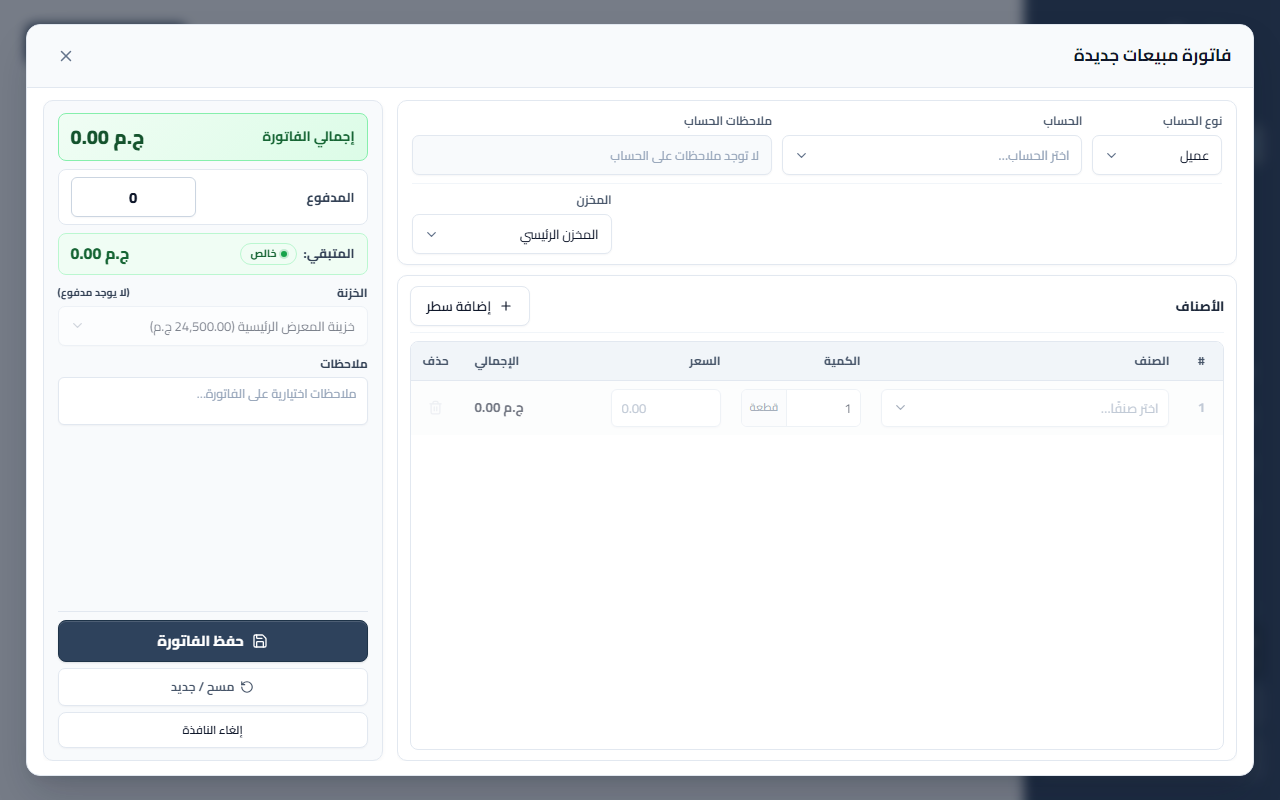
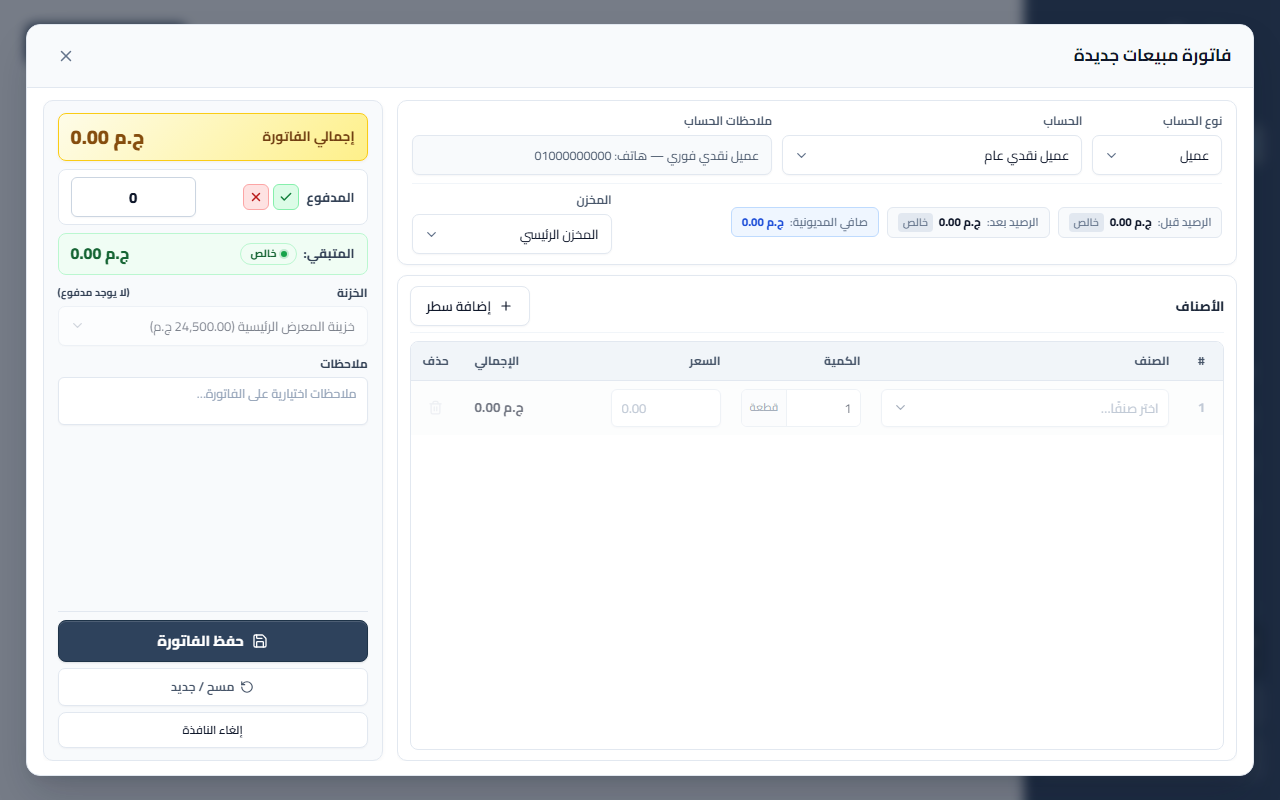
style(invoices): highlight invoice total in yellow and add green check/red x quick pay buttons

diff --git a/src/pages/PreviewPhase3And4.tsx b/src/pages/PreviewPhase3And4.tsx
@@ -581,30 +581,31 @@ export default function PreviewPhase3And4() {
             <InvoiceForm
               kind="sale"
               accounts={[
-                { id: 'acc-1', name: 'عميل نقدي عام', kind: 'customer', balance: 0, is_active: true, notes: 'عميل نقدي فوري', phone: '01000000000', created_at: '', updated_at: '', company_id: '' },
-                { id: 'acc-2', name: 'شركة النور للتجارة والتوريدات', kind: 'customer', balance: 3450, is_active: true, notes: 'عميل آجل معتمد بحد ائتماني 50,000 ج.م', phone: '01234567890', created_at: '', updated_at: '', company_id: '' },
-                { id: 'acc-3', name: 'مؤسسة الفجر للمقاولات', kind: 'customer', balance: 14200, is_active: true, notes: 'دفع نصف شهري', phone: '01112223334', created_at: '', updated_at: '', company_id: '' },
-              ]}
+                { id: 'acc-1', name: 'عميل نقدي عام', kind: 'customer', balance: 0, is_active: true, notes: 'عميل نقدي فوري', phone: '01000000000', serial_number: 1, opening_balance: 0, invoiced: 0, paid: 0, has_documents: false, system_key: 'cash_customer' },
+                { id: 'acc-2', name: 'شركة النور للتجارة والتوريدات', kind: 'customer', balance: 3450, is_active: true, notes: 'عميل آجل معتمد بحد ائتماني 50,000 ج.م', phone: '01234567890', serial_number: 2, opening_balance: 0, invoiced: 8450, paid: 5000, has_documents: true, system_key: null },
+                { id: 'acc-3', name: 'مؤسسة الفجر للمقاولات', kind: 'customer', balance: 14200, is_active: true, notes: 'دفع نصف شهري', phone: '01112223334', serial_number: 3, opening_balance: 0, invoiced: 14200, paid: 0, has_documents: true, system_key: null },
+              ] as any}
               warehouses={[
-                { id: 'wh-1', name: 'المخزن الرئيسي', is_active: true, is_default: true, company_id: '', created_at: '', updated_at: '' },
-                { id: 'wh-2', name: 'مخزن المعرض', is_active: true, is_default: false, company_id: '', created_at: '', updated_at: '' },
-              ]}
+                { id: 'wh-1', name: 'المخزن الرئيسي', is_active: true, is_primary: true, serial_number: 1 },
+                { id: 'wh-2', name: 'مخزن المعرض', is_active: true, is_primary: false, serial_number: 2 },
+              ] as any}
               cashBoxes={[
-                { id: 'cb-1', name: 'خزينة المعرض الرئيسية', balance: 24500, is_active: true, is_default: true, company_id: '', created_at: '', updated_at: '' },
-                { id: 'cb-2', name: 'خزينة الإدارة', balance: 85000, is_active: true, is_default: false, company_id: '', created_at: '', updated_at: '' },
-              ]}
+                { id: 'cb-1', name: 'خزينة المعرض الرئيسية', balance: 24500, is_active: true, is_primary: true, serial_number: 1, opening_balance: 0, notes: null },
+                { id: 'cb-2', name: 'خزينة الإدارة', balance: 85000, is_active: true, is_primary: false, serial_number: 2, opening_balance: 0, notes: null },
+              ] as any}
               items={[
-                { id: 'itm-1', code: 'ITM-001', name: 'شاي العروسة 250 جم', unit: 'كرتونة', sale_price: 180, purchase_price: 150, min_stock: 5, is_active: true, company_id: '', created_at: '', updated_at: '' },
-                { id: 'itm-2', code: 'ITM-002', name: 'سكر أبيض نقي 1 كجم', unit: 'كجم', sale_price: 32.5, purchase_price: 28, min_stock: 10, is_active: true, company_id: '', created_at: '', updated_at: '' },
-                { id: 'itm-3', code: 'ITM-003', name: 'زيت عباد الشمس 800 مل', unit: 'زجاجة', sale_price: 65, purchase_price: 54, min_stock: 8, is_active: true, company_id: '', created_at: '', updated_at: '' },
-                { id: 'itm-4', code: 'ITM-004', name: 'أرز فاخر عريض الحبة 5 كجم', unit: 'شيكارة', sale_price: 175, purchase_price: 145, min_stock: 12, is_active: true, company_id: '', created_at: '', updated_at: '' },
-              ]}
+                { id: 'itm-1', serial_number: 1, code: 'ITM-001', name: 'شاي العروسة 250 جم', unit: 'كرتونة', sale_price: 180, purchase_price: 150, qty: 45, is_active: true },
+                { id: 'itm-2', serial_number: 2, code: 'ITM-002', name: 'سكر أبيض نقي 1 كجم', unit: 'كجم', sale_price: 32.5, purchase_price: 28, qty: 120, is_active: true },
+                { id: 'itm-3', serial_number: 3, code: 'ITM-003', name: 'زيت عباد الشمس 800 مل', unit: 'زجاجة', sale_price: 65, purchase_price: 54, qty: 60, is_active: true },
+                { id: 'itm-4', serial_number: 4, code: 'ITM-004', name: 'أرز فاخر عريض الحبة 5 كجم', unit: 'شيكارة', sale_price: 175, purchase_price: 145, qty: 30, is_active: true },
+              ] as any}
               stockRows={[
                 { item_id: 'itm-1', warehouse_id: 'wh-1', current_qty: 45 },
                 { item_id: 'itm-2', warehouse_id: 'wh-1', current_qty: 120 },
                 { item_id: 'itm-3', warehouse_id: 'wh-1', current_qty: 60 },
                 { item_id: 'itm-4', warehouse_id: 'wh-1', current_qty: 30 },
-              ]}
+              ] as any}
+              editing={null}
               onSaved={() => setInvoiceFormOpen(false)}
               onCancel={() => setInvoiceFormOpen(false)}
             />

diff --git a/src/components/InvoiceForm.tsx b/src/components/InvoiceForm.tsx
@@ -1,5 +1,5 @@
 import { useEffect, useRef, useState, type FormEvent, type KeyboardEvent } from 'react';
-import { Plus, RotateCcw, Save, Trash2 } from 'lucide-react';
+import { Check, Plus, RotateCcw, Save, Trash2, X } from 'lucide-react';
 import { supabase } from '../lib/supabase';
 import { money, qty as formatQty, round2, today } from '../lib/format';
 import { calculateInvoiceSubtotal, calculateRemaining, calculateBalancePreview } from '../lib/invoiceMath';
@@ -574,16 +574,26 @@ export default function InvoiceForm({
             <div className="left-row-strip left-paid-strip">
               <div className="paid-label-group">
                 <span className="strip-label">{isReturn ? 'المسترد' : 'المدفوع'}</span>
-                {total > 0 && Number(paid) !== total && (
+                <div className="paid-quick-actions">
                   <button
                     type="button"
-                    className="btn-pay-full-pill"
+                    className="btn-paid-quick btn-paid-all"
                     onClick={() => setPaid(String(total))}
-                    title="دفع كامل المبلغ"
+                    title={isReturn ? 'استرداد بالكامل' : 'دفع بالكامل'}
+                    aria-label={isReturn ? 'استرداد بالكامل' : 'دفع بالكامل'}
                   >
-                    بالكامل
+                    <Check size={14} strokeWidth={2.5} />
                   </button>
-                )}
+                  <button
+                    type="button"
+                    className="btn-paid-quick btn-paid-zero"
+                    onClick={() => setPaid('0')}
+                    title="عدم دفع شيء (صفر)"
+                    aria-label="عدم دفع شيء (تصفير)"
+                  >
+                    <X size={14} strokeWidth={2.5} />
+                  </button>
+                </div>
               </div>
               <input
                 type="number"

diff --git a/src/styles/pages/invoice-form.css b/src/styles/pages/invoice-form.css
@@ -1085,19 +1085,20 @@
 }
 
 .left-total-strip {
-  background: linear-gradient(135deg, #f0fdf4 0%, #dcfce7 100%);
-  border: 1.5px solid #86efac;
+  background: linear-gradient(135deg, #fefce8 0%, #fef08a 100%);
+  border: 1.5px solid #facc15;
+  box-shadow: 0 1px 3px rgba(161, 98, 7, 0.08);
 }
 
 .left-total-strip .strip-label {
-  color: #166534;
+  color: #713f12;
   font-size: 13.5px;
 }
 
 .strip-value-total {
   font-size: 20px;
   font-weight: 850;
-  color: #14532d;
+  color: #854d0e;
 }
 
 .left-paid-strip {
@@ -1107,15 +1108,52 @@
 .paid-label-group {
   display: flex;
   align-items: center;
-  gap: 6px;
+  gap: 8px;
 }
 
-.invoice-part-left .btn-pay-full-pill {
-  min-height: 22px;
-  height: 22px;
-  padding: 0 8px;
-  font-size: 10.5px;
-  line-height: 1;
+.paid-quick-actions {
+  display: flex;
+  align-items: center;
+  gap: 4px;
+}
+
+.btn-paid-quick {
+  display: inline-flex;
+  align-items: center;
+  justify-content: center;
+  width: 26px;
+  height: 26px;
+  padding: 0;
+  border-radius: 6px;
+  border: 1px solid transparent;
+  cursor: pointer;
+  transition: all 0.15s ease;
+}
+
+.btn-paid-quick.btn-paid-all {
+  background: #dcfce7;
+  border-color: #86efac;
+  color: #15803d;
+}
+
+.btn-paid-quick.btn-paid-all:hover {
+  background: #bbf7d0;
+  border-color: #4ade80;
+  color: #166534;
+  transform: scale(1.05);
+}
+
+.btn-paid-quick.btn-paid-zero {
+  background: #fee2e2;
+  border-color: #fca5a5;
+  color: #b91c1c;
+}
+
+.btn-paid-quick.btn-paid-zero:hover {
+  background: #fecaca;
+  border-color: #f87171;
+  color: #991b1b;
+  transform: scale(1.05);
 }
 
 .left-paid-input {
